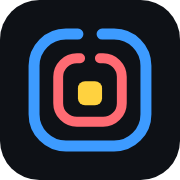
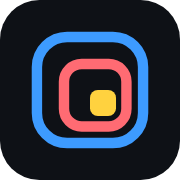
Switch the mark to Subroom: offset nested rooms, innermost lit
brand/build.py now generates the whole kit from one mark definition.

Changed region(s): [[0.1389, 0.1389, 0.8611, 0.8611]]

diff --git a/brand/build.py b/brand/build.py
@@ -1,0 +1,43 @@
+"""Regenerates brand/kit from one mark definition. Run: python3 brand/build.py"""
+from pathlib import Path
+
+OUT = Path(__file__).parent / "kit"
+L = dict(blue="#0A72E6", coral="#F9505A", sun="#FFC400")  # on light backgrounds
+D = dict(blue="#3D9BFF", coral="#FF6B73", sun="#FFD23F")  # on dark backgrounds
+INK, PAPER = "#0E1116", "#FAFAF9"
+
+
+def mark(c1, c2, c3):
+    # "Subroom": rooms inside rooms, stacked toward one corner, the innermost lit.
+    return (f'<rect x="26" y="26" width="204" height="204" rx="58" fill="none" stroke="{c1}" stroke-width="20"/>'
+            f'<rect x="78" y="78" width="120" height="120" rx="34" fill="none" stroke="{c2}" stroke-width="20"/>'
+            f'<rect x="128" y="128" width="50" height="50" rx="15" fill="{c3}"/>')
+
+
+def svg(inner, vb="0 0 256 256"):
+    return (f'<svg xmlns="http://www.w3.org/2000/svg" viewBox="{vb}" role="img" aria-label="Warren">'
+            f'<title>Warren</title>{inner}</svg>\n')
+
+
+def word(fill, x=300, y=176, size=148, anchor="start"):
+    return (f'<text x="{x}" y="{y}" text-anchor="{anchor}" font-family="Inter, -apple-system, \'SF Pro Display\', sans-serif" '
+            f'font-weight="650" font-size="{size}" letter-spacing="{-size/25:.1f}" fill="{fill}">warren</text>')
+
+
+light, dark = mark(*L.values()), mark(*D.values())
+files = {
+    "warren-mark.svg": svg(light),
+    "warren-mark-dark.svg": svg(dark),
+    "warren-mark-ink.svg": svg(mark(INK, INK, INK)),
+    "warren-mark-paper.svg": svg(mark(PAPER, PAPER, PAPER)),
+    "warren-app-icon.svg": svg(f'<rect width="256" height="256" rx="56" fill="{INK}"/>'
+                               f'<g transform="translate(128 128) scale(0.74) translate(-128 -128)">{dark}</g>'),
+    "warren-lockup.svg": svg(light + word(INK), "0 0 860 256"),
+    "warren-lockup-dark.svg": svg(dark + word(PAPER), "0 0 860 256"),
+    "warren-stacked.svg": svg(f'<g transform="translate(152 0)">{light}</g>' + word(INK, 280, 372, 112, "middle"),
+                              "0 0 560 400"),
+}
+for name, content in files.items():
+    (OUT / name).write_text(content)
+(OUT / "web" / "favicon.svg").write_text(files["warren-app-icon.svg"])
+print("wrote", len(files) + 1, "files")

diff --git a/brand/BRAND.md b/brand/BRAND.md
@@ -1,6 +1,6 @@
 # warren brand
 
-**Mark: "Lit room".** Rooms inside rooms, their doors lined up into a corridor that ends in the lit room: where a message just landed.
+**Mark: "Subroom".** Rooms inside rooms, stacked toward one corner, the innermost one lit: the branch an agent works in, where a message just landed. Geometry and colours live in `brand/build.py`; edit there and re-run it.
 
 ## Files (`brand/kit/`)
 
@@ -32,12 +32,13 @@ Inter (Google Fonts, OFL), weight 650 for the wordmark with tight tracking (-0.0
 
 ## Rules
 
-- Clear space around the mark: the width of the lit room (44/256 of the mark).
+- Clear space around the mark: the width of the lit room (50/256 of the mark).
 - Minimum size: 16 px (favicon), lockup 96 px wide.
 - On dark backgrounds use the `-dark` files; never put the light mark on ink.
-- Don't recolour the rings, rotate the mark or close the doors.
+- Don't recolour the rooms, rotate or mirror the mark (the lit room sits bottom-right).
 
 ## Open items
 
 - The wordmark in the lockup SVGs is live text in Inter; convert to outlines before print use.
+- Strokes are not expanded to outlines yet (fine for web, expand for print or cutting).
 - Trademark clearance not checked.
